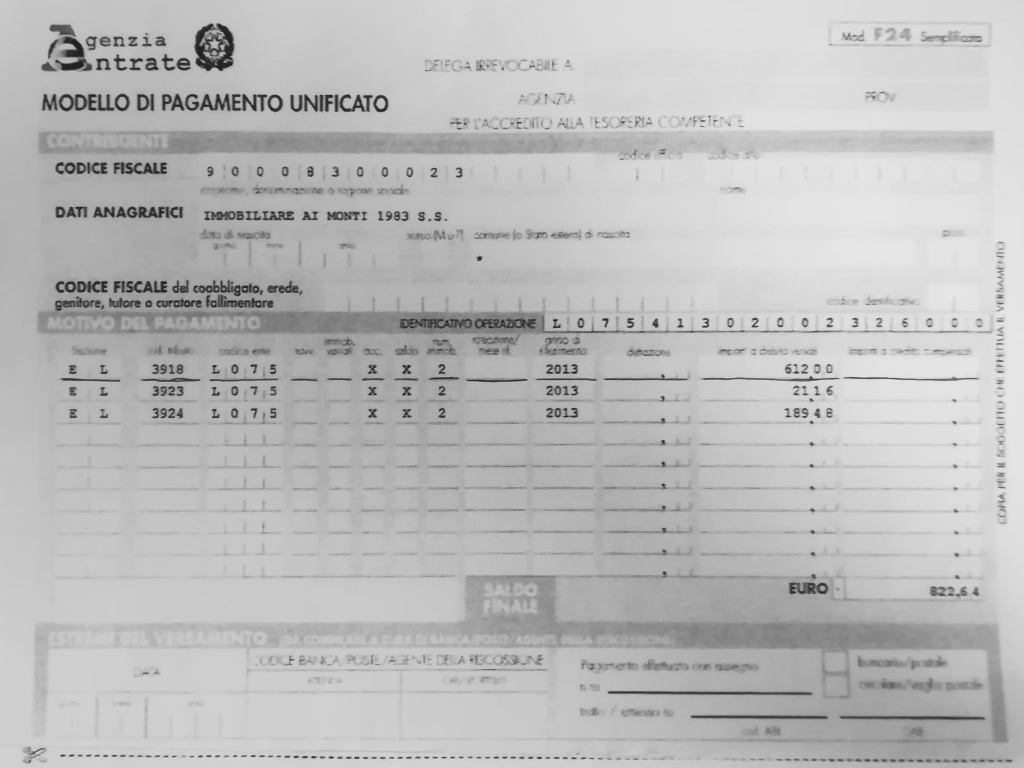
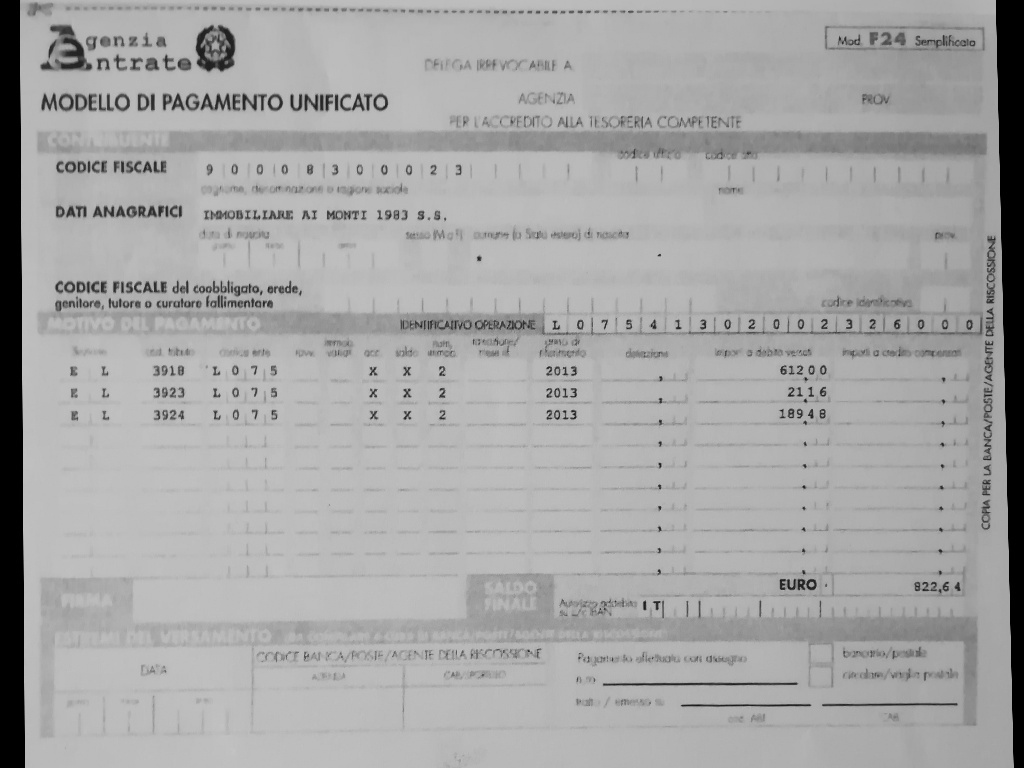
added boundaries

diff --git a/endpt.py b/endpt.py
@@ -1,0 +1,81 @@
+from __future__ import print_function
+import cv2 as cv
+import numpy as np
+import argparse
+
+
+def findEndPt(image ,temp,count):
+  print(temp)
+  img_object = cv.imread(temp, cv.IMREAD_GRAYSCALE)
+  img_scene = cv.imread(image, cv.IMREAD_GRAYSCALE)
+  if img_object is None or img_scene is None:
+    print('Could not open or find the images!')
+    exit(0)
+
+#-- Step 1: Detect the keypoints using SURF Detector, compute the descriptors
+  minHessian = 400
+  detector = cv.xfeatures2d_SURF.create(hessianThreshold=minHessian)
+  keypoints_obj, descriptors_obj = detector.detectAndCompute(img_object, None)
+  keypoints_scene, descriptors_scene = detector.detectAndCompute(img_scene, None)
+
+#-- Step 2: Matching descriptor vectors with a FLANN based matcher
+# Since SURF is a floating-point descriptor NORM_L2 is used
+  matcher = cv.DescriptorMatcher_create(cv.DescriptorMatcher_FLANNBASED)
+  knn_matches = matcher.knnMatch(descriptors_obj, descriptors_scene, 2)
+
+#-- Filter matches using the Lowe's ratio test
+  ratio_thresh = 0.7
+  good_matches = []
+  for m,n in knn_matches:
+    if m.distance < ratio_thresh * n.distance:
+        good_matches.append(m)
+  print(len(good_matches))
+  if len(good_matches)<5:
+    return 0
+#-- Draw matches
+  img_matches = np.empty((max(img_object.shape[0], img_scene.shape[0]), img_object.shape[1]+img_scene.shape[1], 3), dtype=np.uint8)
+ 
+#-- Localize the object
+  obj = np.empty((len(good_matches),2), dtype=np.float32)
+  scene = np.empty((len(good_matches),2), dtype=np.float32)
+  for i in range(len(good_matches)):
+    #-- Get the keypoints from the good matches
+    obj[i,0] = keypoints_obj[good_matches[i].queryIdx].pt[0]
+    obj[i,1] = keypoints_obj[good_matches[i].queryIdx].pt[1]
+    scene[i,0] = keypoints_scene[good_matches[i].trainIdx].pt[0]
+    scene[i,1] = keypoints_scene[good_matches[i].trainIdx].pt[1]
+
+  H, _ =  cv.findHomography(obj, scene, cv.RANSAC)
+
+#-- Get the corners from the image_1 ( the object to be "detected" )
+  obj_corners = np.empty((4,1,2), dtype=np.float32)
+  obj_corners[0,0,0] = 0
+  obj_corners[0,0,1] = 0
+  obj_corners[1,0,0] = img_object.shape[1]
+  obj_corners[1,0,1] = 0
+  obj_corners[2,0,0] = img_object.shape[1]
+  obj_corners[2,0,1] = img_object.shape[0]
+  obj_corners[3,0,0] = 0
+  obj_corners[3,0,1] = img_object.shape[0]
+
+  scene_corners = cv.perspectiveTransform(obj_corners, H)
+
+  if count<=3 :
+    return(int((int(scene_corners[3,0,0])+int(scene_corners[0,0,0]))/2))
+  else:
+    return(int(scene_corners[2,0,0] ))
+
+def findpt(img_path):
+    
+    points = []
+    for i in range(1,10):
+        img_template='./patch/'+str(i)+'.png';
+        pt = findEndPt(img_path,img_template,i)
+        points.append(pt)
+    return points
+if __name__ == '__main__':
+       points = findpt('./sc.jpg')
+       print(points)
+
+
+

diff --git a/app.py b/app.py
@@ -9,6 +9,7 @@ from werkzeug.wrappers import Request, Response
 from werkzeug.serving import run_simple
 import imgskew
 import gc
+import endpt
 
 app = Flask(__name__)
 
@@ -23,7 +24,8 @@ def f24Form():
   result = imgskew.imageSkew(data['encodedImage']) 
   #print(data['encodedImage'])
   #check(result)
-  response = json.dumps({'encodedImage':result.decode('UTF-8')})
+  points = endpt.findpt('./sc.jpg')
+  response = json.dumps({'encodedImage':result.decode('UTF-8'),'bounds' : points})
   #print(response)
   return response
 
